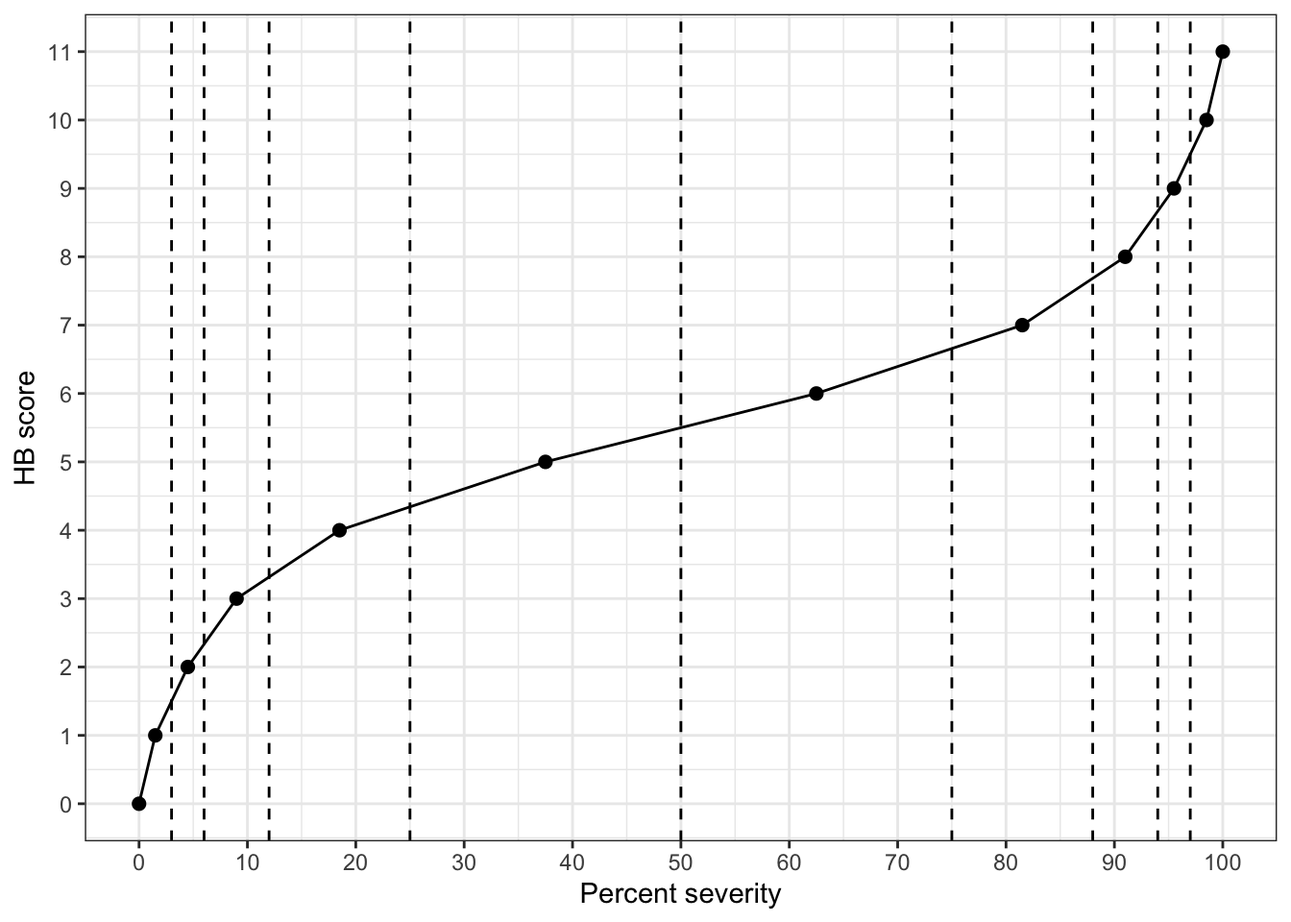
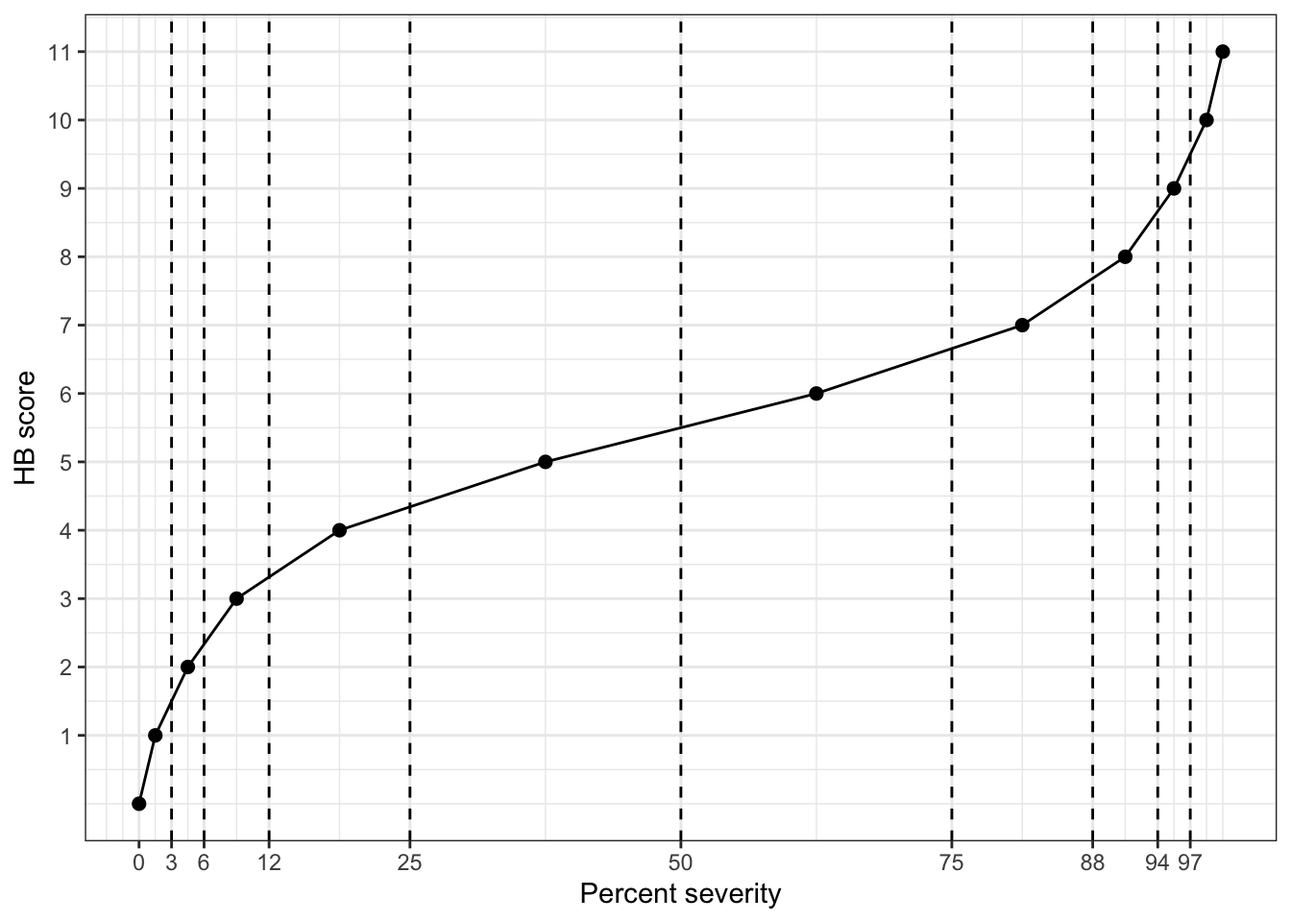
ordinal scales revised

diff --git a/_book/data-ordinal.html b/_book/data-ordinal.html
@@ -353,7 +353,7 @@ gtag('config', 'G-5T7SZYQV79', { 'anonymize_ip': true});
 </div>
 <section id="ordinal-scales" class="level2" data-number="4.1">
 <h2 data-number="4.1" class="anchored" data-anchor-id="ordinal-scales"><span class="header-section-number">4.1</span> Ordinal scales</h2>
-<p>The ordinal scales are structured as rank-ordered numeric classes in a finite number of classes. There are two common types of ordinal scales in plant pathological research: quantitative and qualitative <span class="citation" data-cites="Chiang2022">(<a href="references.html#ref-Chiang2022" role="doc-biblioref">Chiang and Bock 2021</a>)</span>. The reasons for using ordinal scales include convenience and speed of rating <span class="citation" data-cites="madden2017">(<a href="references.html#ref-madden2017" role="doc-biblioref">Madden et al. 2017</a>)</span>.</p>
+<p>The ordinal scales are structured as rank-ordered numeric classes in a finite number of classes. The reasons for using ordinal scales include convenience and speed of rating <span class="citation" data-cites="madden2017">(<a href="references.html#ref-madden2017" role="doc-biblioref">Madden et al. 2017</a>)</span>. There are two common types of ordinal scales in plant pathological research: quantitative and qualitative <span class="citation" data-cites="Chiang2022">(<a href="references.html#ref-Chiang2022" role="doc-biblioref">Chiang and Bock 2021</a>)</span>.</p>
 <section id="quantitative-ordinal" class="level3" data-number="4.1.1">
 <h3 data-number="4.1.1" class="anchored" data-anchor-id="quantitative-ordinal"><span class="header-section-number">4.1.1</span> Quantitative ordinal</h3>
 <p>In the quantitative ordinal scale, each score represents a defined interval of the percentage scale. The most well-known quantitative ordinal scale is the Horsfall-Barratt (HB) scale, developed in the early 1940s when the science of plant pathology was in need of more quantitative approaches <span class="citation" data-cites="hebert1982">(<a href="references.html#ref-hebert1982" role="doc-biblioref">Hebert 1982</a>)</span>. The HB scale splits the percent scale into twelve consecutive logarithmic-based intervals of severity from 0 to 100%. The intervals increase in size from 0 to 50% and decline from 50 to 100%.</p>
@@ -363,14 +363,14 @@ gtag('config', 'G-5T7SZYQV79', { 'anonymize_ip': true});
 <i class="callout-icon"></i>
 </div>
 <div class="callout-caption-container flex-fill">
-Controversy
+Controversy of the H-B scale
 </div>
 </div>
 <div class="callout-body-container callout-body">
-<p>The divisions of the <strong>H-B scale</strong> were based on two assumptions. First, on the logarithmic relationship between the intensity of a stimulus and sensation. Second, that the rater tends to focus on objects that are of smaller size when observing objects of two colors <span class="citation" data-cites="madden2017">(<a href="references.html#ref-madden2017" role="doc-biblioref">Madden et al. 2017</a>)</span>. The topic is a point of controversy in the literature, as there is little experimental evidence of these assumptions. To date, evidence shows a linear relationship between visually estimated and actual severity <span class="citation" data-cites="nutter2006a">(<a href="references.html#ref-nutter2006a" role="doc-biblioref">Nutter and Esker 2006</a>)</span>. New scale structure have been proposed to overcome the issues associated with the H-B scale <span class="citation" data-cites="liu2019 chiang2014">(<a href="references.html#ref-liu2019" role="doc-biblioref">Liu et al. 2019</a>; <a href="references.html#ref-chiang2014" role="doc-biblioref">Chiang et al. 2014</a>)</span>. The <strong>Chiang scale</strong> follows a linear relationship with percentage area diseased at severities &gt;10% (class 6 on the scale)</p>
+<p>The divisions of the H-B scale were based on two assumptions. First, on the logarithmic relationship between the intensity of a stimulus and sensation. Second, that the rater tends to focus on objects that are of smaller size when observing objects of two colors <span class="citation" data-cites="madden2017">(<a href="references.html#ref-madden2017" role="doc-biblioref">Madden et al. 2017</a>)</span>. The basis is the so-called Weber-Fechner law. There is little experimental evidence of the assumptions. To date, evidence shows a linear relationship, not a logarithmic, between visually estimated and actual severity <span class="citation" data-cites="nutter2006a">(<a href="references.html#ref-nutter2006a" role="doc-biblioref">Nutter and Esker 2006</a>)</span>. Also, those authors showed that raters more accurately discriminated disease severity between 25% and 50% compared to what the H-B scale allowed. New scale structure have been proposed to overcome the issues associated with the H-B scale <span class="citation" data-cites="liu2019 chiang2014">(<a href="references.html#ref-liu2019" role="doc-biblioref">Liu et al. 2019</a>; <a href="references.html#ref-chiang2014" role="doc-biblioref">Chiang et al. 2014</a>)</span>. The Chiang scale follows a linear relationship with percentage area diseased at severities &gt;10% (class 6 on the scale)</p>
 </div>
 </div>
-<p>Let’s create the HB scale data and store as a data frame in R so we can prepare a table and a plot.</p>
+<p>Let’s input the HB scale data and store as a data frame in R so we can prepare a table and a plot.</p>
 <div class="cell">
 <div class="sourceCode cell-code" id="cb1"><pre class="sourceCode r code-with-copy"><code class="sourceCode r"><span id="cb1-1"><a href="#cb1-1" aria-hidden="true" tabindex="-1"></a>HB <span class="ot">&lt;-</span> tibble<span class="sc">::</span><span class="fu">tribble</span>(</span>
 <span id="cb1-2"><a href="#cb1-2" aria-hidden="true" tabindex="-1"></a>  <span class="sc">~</span>score, <span class="sc">~</span><span class="st">'range'</span>, <span class="sc">~</span>midpoint,</span>
@@ -473,8 +473,8 @@ Controversy
 <span id="cb2-4"><a href="#cb2-4" aria-hidden="true" tabindex="-1"></a>  <span class="fu">ggplot</span>(<span class="fu">aes</span>(midpoint, score))<span class="sc">+</span></span>
 <span id="cb2-5"><a href="#cb2-5" aria-hidden="true" tabindex="-1"></a>  <span class="fu">geom_point</span>(<span class="at">size =</span><span class="dv">2</span>)<span class="sc">+</span></span>
 <span id="cb2-6"><a href="#cb2-6" aria-hidden="true" tabindex="-1"></a>  <span class="fu">geom_line</span>()<span class="sc">+</span></span>
-<span id="cb2-7"><a href="#cb2-7" aria-hidden="true" tabindex="-1"></a>  <span class="fu">scale_x_continuous</span>(<span class="at">n.breaks =</span> <span class="dv">10</span>)<span class="sc">+</span></span>
-<span id="cb2-8"><a href="#cb2-8" aria-hidden="true" tabindex="-1"></a>  <span class="fu">scale_y_continuous</span>(<span class="at">n.breaks =</span><span class="dv">12</span>)<span class="sc">+</span></span>
+<span id="cb2-7"><a href="#cb2-7" aria-hidden="true" tabindex="-1"></a>  <span class="fu">scale_x_continuous</span>(<span class="at">breaks =</span> <span class="fu">c</span>(<span class="dv">0</span>, <span class="dv">3</span>, <span class="dv">6</span>, <span class="dv">12</span>, <span class="dv">25</span>, <span class="dv">50</span>, <span class="dv">75</span>, <span class="dv">88</span>, <span class="dv">94</span>, <span class="dv">97</span>))<span class="sc">+</span></span>
+<span id="cb2-8"><a href="#cb2-8" aria-hidden="true" tabindex="-1"></a>  <span class="fu">scale_y_continuous</span>(<span class="at">breaks =</span> <span class="fu">c</span>(<span class="dv">1</span><span class="sc">:</span><span class="dv">12</span>))<span class="sc">+</span></span>
 <span id="cb2-9"><a href="#cb2-9" aria-hidden="true" tabindex="-1"></a>  <span class="fu">geom_vline</span>(<span class="fu">aes</span>(<span class="at">xintercept =</span> <span class="dv">3</span>), <span class="at">linetype =</span> <span class="dv">2</span>)<span class="sc">+</span></span>
 <span id="cb2-10"><a href="#cb2-10" aria-hidden="true" tabindex="-1"></a>  <span class="fu">geom_vline</span>(<span class="fu">aes</span>(<span class="at">xintercept =</span> <span class="dv">6</span>), <span class="at">linetype =</span> <span class="dv">2</span>)<span class="sc">+</span></span>
 <span id="cb2-11"><a href="#cb2-11" aria-hidden="true" tabindex="-1"></a>  <span class="fu">geom_vline</span>(<span class="fu">aes</span>(<span class="at">xintercept =</span> <span class="dv">12</span>), <span class="at">linetype =</span> <span class="dv">2</span>)<span class="sc">+</span></span>
@@ -494,6 +494,159 @@ Controversy
 </div>
 </div>
 </div>
+<p>We can repeat those procedures to visualize the Chiang scale.</p>
+<div class="cell">
+<div class="sourceCode cell-code" id="cb3"><pre class="sourceCode r code-with-copy"><code class="sourceCode r"><span id="cb3-1"><a href="#cb3-1" aria-hidden="true" tabindex="-1"></a>chiang <span class="ot">&lt;-</span> tibble<span class="sc">::</span><span class="fu">tribble</span>(</span>
+<span id="cb3-2"><a href="#cb3-2" aria-hidden="true" tabindex="-1"></a>  <span class="sc">~</span>score, <span class="sc">~</span><span class="st">'range'</span>, <span class="sc">~</span>midpoint,</span>
+<span id="cb3-3"><a href="#cb3-3" aria-hidden="true" tabindex="-1"></a>  <span class="dv">0</span>,          <span class="st">'0'</span>,     <span class="dv">0</span>,   </span>
+<span id="cb3-4"><a href="#cb3-4" aria-hidden="true" tabindex="-1"></a>  <span class="dv">1</span>,  <span class="st">'0+ to 0.1'</span>,  <span class="fl">0.05</span>,   </span>
+<span id="cb3-5"><a href="#cb3-5" aria-hidden="true" tabindex="-1"></a>  <span class="dv">2</span>,<span class="st">'0.1+ to 0.5'</span>,   <span class="fl">0.3</span>,   </span>
+<span id="cb3-6"><a href="#cb3-6" aria-hidden="true" tabindex="-1"></a>  <span class="dv">3</span>,  <span class="st">'0.5+ to 1'</span>,  <span class="fl">0.75</span>,  </span>
+<span id="cb3-7"><a href="#cb3-7" aria-hidden="true" tabindex="-1"></a>  <span class="dv">4</span>,    <span class="st">'1+ to 2'</span>,   <span class="fl">1.5</span>, </span>
+<span id="cb3-8"><a href="#cb3-8" aria-hidden="true" tabindex="-1"></a>  <span class="dv">5</span>,    <span class="st">'2+ to 5'</span>,     <span class="dv">3</span>, </span>
+<span id="cb3-9"><a href="#cb3-9" aria-hidden="true" tabindex="-1"></a>  <span class="dv">6</span>,   <span class="st">'5+ to 10'</span>,   <span class="fl">7.5</span>, </span>
+<span id="cb3-10"><a href="#cb3-10" aria-hidden="true" tabindex="-1"></a>  <span class="dv">7</span>,  <span class="st">'10+ to 20'</span>,    <span class="dv">15</span>, </span>
+<span id="cb3-11"><a href="#cb3-11" aria-hidden="true" tabindex="-1"></a>  <span class="dv">8</span>,  <span class="st">'20+ to 30'</span>,    <span class="dv">25</span>, </span>
+<span id="cb3-12"><a href="#cb3-12" aria-hidden="true" tabindex="-1"></a>  <span class="dv">9</span>,  <span class="st">'30+ to 40'</span>,    <span class="dv">35</span>, </span>
+<span id="cb3-13"><a href="#cb3-13" aria-hidden="true" tabindex="-1"></a>  <span class="dv">10</span>, <span class="st">'40+ to 50'</span>,    <span class="dv">45</span>,  </span>
+<span id="cb3-14"><a href="#cb3-14" aria-hidden="true" tabindex="-1"></a>  <span class="dv">11</span>, <span class="st">'50+ to 60'</span>,    <span class="dv">55</span>,</span>
+<span id="cb3-15"><a href="#cb3-15" aria-hidden="true" tabindex="-1"></a>  <span class="dv">12</span>, <span class="st">'60+ to 70'</span>,    <span class="dv">65</span>,</span>
+<span id="cb3-16"><a href="#cb3-16" aria-hidden="true" tabindex="-1"></a>  <span class="dv">13</span>, <span class="st">'70+ to 80'</span>,    <span class="dv">75</span>,</span>
+<span id="cb3-17"><a href="#cb3-17" aria-hidden="true" tabindex="-1"></a>  <span class="dv">14</span>, <span class="st">'80+ to 90'</span>,    <span class="dv">85</span>,</span>
+<span id="cb3-18"><a href="#cb3-18" aria-hidden="true" tabindex="-1"></a>  <span class="dv">15</span>, <span class="st">'90+ to 100'</span>,   <span class="dv">95</span></span>
+<span id="cb3-19"><a href="#cb3-19" aria-hidden="true" tabindex="-1"></a>  )</span>
+<span id="cb3-20"><a href="#cb3-20" aria-hidden="true" tabindex="-1"></a>knitr<span class="sc">::</span><span class="fu">kable</span>(chiang, <span class="at">align =</span> <span class="st">"c"</span>)</span></code><button title="Copy to Clipboard" class="code-copy-button"><i class="bi"></i></button></pre></div>
+<div class="cell-output-display">
+<div id="tbl-chiang" class="anchored">
+<table class="table table-sm table-striped">
+<caption>Table&nbsp;4.2: The Chiang quantitative ordinal scale used as a tool for assessing plant disease severity</caption>
+<thead>
+<tr class="header">
+<th style="text-align: center;">score</th>
+<th style="text-align: center;">range</th>
+<th style="text-align: center;">midpoint</th>
+</tr>
+</thead>
+<tbody>
+<tr class="odd">
+<td style="text-align: center;">0</td>
+<td style="text-align: center;">0</td>
+<td style="text-align: center;">0.00</td>
+</tr>
+<tr class="even">
+<td style="text-align: center;">1</td>
+<td style="text-align: center;">0+ to 0.1</td>
+<td style="text-align: center;">0.05</td>
+</tr>
+<tr class="odd">
+<td style="text-align: center;">2</td>
+<td style="text-align: center;">0.1+ to 0.5</td>
+<td style="text-align: center;">0.30</td>
+</tr>
+<tr class="even">
+<td style="text-align: center;">3</td>
+<td style="text-align: center;">0.5+ to 1</td>
+<td style="text-align: center;">0.75</td>
+</tr>
+<tr class="odd">
+<td style="text-align: center;">4</td>
+<td style="text-align: center;">1+ to 2</td>
+<td style="text-align: center;">1.50</td>
+</tr>
+<tr class="even">
+<td style="text-align: center;">5</td>
+<td style="text-align: center;">2+ to 5</td>
+<td style="text-align: center;">3.00</td>
+</tr>
+<tr class="odd">
+<td style="text-align: center;">6</td>
+<td style="text-align: center;">5+ to 10</td>
+<td style="text-align: center;">7.50</td>
+</tr>
+<tr class="even">
+<td style="text-align: center;">7</td>
+<td style="text-align: center;">10+ to 20</td>
+<td style="text-align: center;">15.00</td>
+</tr>
+<tr class="odd">
+<td style="text-align: center;">8</td>
+<td style="text-align: center;">20+ to 30</td>
+<td style="text-align: center;">25.00</td>
+</tr>
+<tr class="even">
+<td style="text-align: center;">9</td>
+<td style="text-align: center;">30+ to 40</td>
+<td style="text-align: center;">35.00</td>
+</tr>
+<tr class="odd">
+<td style="text-align: center;">10</td>
+<td style="text-align: center;">40+ to 50</td>
+<td style="text-align: center;">45.00</td>
+</tr>
+<tr class="even">
+<td style="text-align: center;">11</td>
+<td style="text-align: center;">50+ to 60</td>
+<td style="text-align: center;">55.00</td>
+</tr>
+<tr class="odd">
+<td style="text-align: center;">12</td>
+<td style="text-align: center;">60+ to 70</td>
+<td style="text-align: center;">65.00</td>
+</tr>
+<tr class="even">
+<td style="text-align: center;">13</td>
+<td style="text-align: center;">70+ to 80</td>
+<td style="text-align: center;">75.00</td>
+</tr>
+<tr class="odd">
+<td style="text-align: center;">14</td>
+<td style="text-align: center;">80+ to 90</td>
+<td style="text-align: center;">85.00</td>
+</tr>
+<tr class="even">
+<td style="text-align: center;">15</td>
+<td style="text-align: center;">90+ to 100</td>
+<td style="text-align: center;">95.00</td>
+</tr>
+</tbody>
+</table>
+</div>
+</div>
+</div>
+<div class="cell">
+<div class="sourceCode cell-code" id="cb4"><pre class="sourceCode r code-with-copy"><code class="sourceCode r"><span id="cb4-1"><a href="#cb4-1" aria-hidden="true" tabindex="-1"></a><span class="fu">library</span>(tidyverse)</span>
+<span id="cb4-2"><a href="#cb4-2" aria-hidden="true" tabindex="-1"></a><span class="fu">theme_set</span>(<span class="fu">theme_bw</span>())</span>
+<span id="cb4-3"><a href="#cb4-3" aria-hidden="true" tabindex="-1"></a>chiang <span class="sc">|&gt;</span> </span>
+<span id="cb4-4"><a href="#cb4-4" aria-hidden="true" tabindex="-1"></a>  <span class="fu">ggplot</span>(<span class="fu">aes</span>(midpoint, score))<span class="sc">+</span></span>
+<span id="cb4-5"><a href="#cb4-5" aria-hidden="true" tabindex="-1"></a>  <span class="fu">geom_point</span>(<span class="at">size =</span><span class="dv">2</span>)<span class="sc">+</span></span>
+<span id="cb4-6"><a href="#cb4-6" aria-hidden="true" tabindex="-1"></a>  <span class="fu">geom_line</span>()<span class="sc">+</span></span>
+<span id="cb4-7"><a href="#cb4-7" aria-hidden="true" tabindex="-1"></a>  <span class="fu">scale_x_continuous</span>(<span class="at">breaks =</span> <span class="fu">c</span>(<span class="dv">0</span>, <span class="dv">5</span>, <span class="dv">10</span>, <span class="dv">20</span>, <span class="dv">30</span>, <span class="dv">40</span>, <span class="dv">50</span>, <span class="dv">60</span>, <span class="dv">70</span>, <span class="dv">80</span>, <span class="dv">90</span>, <span class="dv">100</span>))<span class="sc">+</span></span>
+<span id="cb4-8"><a href="#cb4-8" aria-hidden="true" tabindex="-1"></a>  <span class="fu">geom_vline</span>(<span class="fu">aes</span>(<span class="at">xintercept =</span> <span class="dv">0</span>), <span class="at">linetype =</span> <span class="dv">2</span>)<span class="sc">+</span></span>
+<span id="cb4-9"><a href="#cb4-9" aria-hidden="true" tabindex="-1"></a>  <span class="fu">geom_vline</span>(<span class="fu">aes</span>(<span class="at">xintercept =</span> <span class="fl">0.1</span>), <span class="at">linetype =</span> <span class="dv">2</span>)<span class="sc">+</span></span>
+<span id="cb4-10"><a href="#cb4-10" aria-hidden="true" tabindex="-1"></a>  <span class="fu">geom_vline</span>(<span class="fu">aes</span>(<span class="at">xintercept =</span> <span class="fl">0.5</span>), <span class="at">linetype =</span> <span class="dv">2</span>)<span class="sc">+</span></span>
+<span id="cb4-11"><a href="#cb4-11" aria-hidden="true" tabindex="-1"></a>  <span class="fu">geom_vline</span>(<span class="fu">aes</span>(<span class="at">xintercept =</span> <span class="dv">1</span>), <span class="at">linetype =</span> <span class="dv">2</span>)<span class="sc">+</span></span>
+<span id="cb4-12"><a href="#cb4-12" aria-hidden="true" tabindex="-1"></a>  <span class="fu">geom_vline</span>(<span class="fu">aes</span>(<span class="at">xintercept =</span> <span class="dv">2</span>), <span class="at">linetype =</span> <span class="dv">2</span>)<span class="sc">+</span></span>
+<span id="cb4-13"><a href="#cb4-13" aria-hidden="true" tabindex="-1"></a>  <span class="fu">geom_vline</span>(<span class="fu">aes</span>(<span class="at">xintercept =</span> <span class="dv">5</span>), <span class="at">linetype =</span> <span class="dv">2</span>)<span class="sc">+</span></span>
+<span id="cb4-14"><a href="#cb4-14" aria-hidden="true" tabindex="-1"></a>  <span class="fu">geom_vline</span>(<span class="fu">aes</span>(<span class="at">xintercept =</span> <span class="dv">10</span>), <span class="at">linetype =</span> <span class="dv">2</span>)<span class="sc">+</span></span>
+<span id="cb4-15"><a href="#cb4-15" aria-hidden="true" tabindex="-1"></a>  <span class="fu">geom_vline</span>(<span class="fu">aes</span>(<span class="at">xintercept =</span> <span class="dv">20</span>), <span class="at">linetype =</span> <span class="dv">2</span>)<span class="sc">+</span></span>
+<span id="cb4-16"><a href="#cb4-16" aria-hidden="true" tabindex="-1"></a>  <span class="fu">geom_vline</span>(<span class="fu">aes</span>(<span class="at">xintercept =</span> <span class="dv">30</span>), <span class="at">linetype =</span> <span class="dv">2</span>)<span class="sc">+</span></span>
+<span id="cb4-17"><a href="#cb4-17" aria-hidden="true" tabindex="-1"></a>   <span class="fu">geom_vline</span>(<span class="fu">aes</span>(<span class="at">xintercept =</span> <span class="dv">40</span>), <span class="at">linetype =</span> <span class="dv">2</span>)<span class="sc">+</span></span>
+<span id="cb4-18"><a href="#cb4-18" aria-hidden="true" tabindex="-1"></a>   <span class="fu">geom_vline</span>(<span class="fu">aes</span>(<span class="at">xintercept =</span> <span class="dv">50</span>), <span class="at">linetype =</span> <span class="dv">2</span>)<span class="sc">+</span></span>
+<span id="cb4-19"><a href="#cb4-19" aria-hidden="true" tabindex="-1"></a>   <span class="fu">geom_vline</span>(<span class="fu">aes</span>(<span class="at">xintercept =</span> <span class="dv">60</span>), <span class="at">linetype =</span> <span class="dv">2</span>)<span class="sc">+</span></span>
+<span id="cb4-20"><a href="#cb4-20" aria-hidden="true" tabindex="-1"></a>   <span class="fu">geom_vline</span>(<span class="fu">aes</span>(<span class="at">xintercept =</span> <span class="dv">70</span>), <span class="at">linetype =</span> <span class="dv">2</span>)<span class="sc">+</span></span>
+<span id="cb4-21"><a href="#cb4-21" aria-hidden="true" tabindex="-1"></a>   <span class="fu">geom_vline</span>(<span class="fu">aes</span>(<span class="at">xintercept =</span> <span class="dv">80</span>), <span class="at">linetype =</span> <span class="dv">2</span>)<span class="sc">+</span></span>
+<span id="cb4-22"><a href="#cb4-22" aria-hidden="true" tabindex="-1"></a>   <span class="fu">geom_vline</span>(<span class="fu">aes</span>(<span class="at">xintercept =</span> <span class="dv">90</span>), <span class="at">linetype =</span> <span class="dv">2</span>)<span class="sc">+</span></span>
+<span id="cb4-23"><a href="#cb4-23" aria-hidden="true" tabindex="-1"></a>   <span class="fu">geom_vline</span>(<span class="fu">aes</span>(<span class="at">xintercept =</span> <span class="dv">100</span>), <span class="at">linetype =</span> <span class="dv">2</span>)<span class="sc">+</span></span>
+<span id="cb4-24"><a href="#cb4-24" aria-hidden="true" tabindex="-1"></a>  <span class="fu">labs</span>(<span class="at">x =</span> <span class="st">"Percent severity"</span>, <span class="at">y =</span> <span class="st">"Chiang score"</span>)</span></code><button title="Copy to Clipboard" class="code-copy-button"><i class="bi"></i></button></pre></div>
+<div class="cell-output-display">
+<div id="fig-chiagn" class="quarto-figure quarto-figure-center anchored">
+<figure class="figure">
+<p><img src="data-ordinal_files/figure-html/fig-chiagn-1.png" class="img-fluid figure-img" width="672"></p>
+<p></p><figcaption class="figure-caption">Figure&nbsp;4.2: Ordinal scores of the Chiang scale</figcaption><p></p>
+</figure>
+</div>
+</div>
+</div>
 </section>
 <section id="qualitative-ordinal" class="level3" data-number="4.1.2">
 <h3 data-number="4.1.2" class="anchored" data-anchor-id="qualitative-ordinal"><span class="header-section-number">4.1.2</span> Qualitative ordinal</h3>
@@ -501,8 +654,8 @@ Controversy
 <table class="table">
 <caption>Ordinal scale for rating eyespot of wheat <span class="citation" data-cites="scott1974">(<a href="references.html#ref-scott1974" role="doc-biblioref">Scott and Hollins 1974</a>)</span></caption>
 <colgroup>
-<col style="width: 25%">
-<col style="width: 75%">
+<col style="width: 26%">
+<col style="width: 73%">
 </colgroup>
 <thead>
 <tr class="header">
@@ -534,30 +687,30 @@ Controversy
 <section id="disease-severity-index-dsi" class="level2" data-number="4.2">
 <h2 data-number="4.2" class="anchored" data-anchor-id="disease-severity-index-dsi"><span class="header-section-number">4.2</span> Disease severity index (DSI)</h2>
 <p>Usually, when quantitative or qualitative ordinal scales are used, the scores are transformed into an index on a percentage basis, such as the disease severity index (DSI) which are used in data analysis. The DSI is a single number that summarizes a large amount of information on disease severity <span class="citation" data-cites="chester1950">(<a href="references.html#ref-chester1950" role="doc-biblioref">Chester 1950</a>)</span>. The formula for a DSI (%) can be written as follows:</p>
-<p><span class="math inline">\(DSI = \frac{∑(class \ frequency \ ✕ \ score \  of \ rating \ class)} {total \ number \ of \ observations \ ✕ \ maximal \ disease \ index} ✕ 100\)</span></p>
+<p><span class="math inline">\(DSI = \frac{∑(class \ freq. \ ✕ \ score \  of \ class)} {total \ n \ ✕ \ maximal \ class} ✕ 100\)</span></p>
 <p>Let’s create a function named <code>DSI()</code> to automate the calculation of the disease severity index (DSI) in a series of units (e.g.&nbsp;leaves) that are further classified according to ordinal scores.</p>
 <div class="cell">
-<div class="sourceCode cell-code" id="cb3"><pre class="sourceCode r code-with-copy"><code class="sourceCode r"><span id="cb3-1"><a href="#cb3-1" aria-hidden="true" tabindex="-1"></a>DSI <span class="ot">&lt;-</span> <span class="cf">function</span>(unit, score, max) {</span>
-<span id="cb3-2"><a href="#cb3-2" aria-hidden="true" tabindex="-1"></a>df <span class="ot">&lt;-</span> <span class="fu">data.frame</span>(unit, score)</span>
-<span id="cb3-3"><a href="#cb3-3" aria-hidden="true" tabindex="-1"></a>tab <span class="ot">&lt;-</span> <span class="fu">aggregate</span>(df<span class="sc">$</span>score, <span class="fu">list</span>(<span class="at">num=</span>score), length)</span>
-<span id="cb3-4"><a href="#cb3-4" aria-hidden="true" tabindex="-1"></a>tab<span class="sc">$</span>weight <span class="ot">=</span> tab<span class="sc">$</span>num <span class="sc">*</span> tab<span class="sc">$</span>x</span>
-<span id="cb3-5"><a href="#cb3-5" aria-hidden="true" tabindex="-1"></a>(<span class="fu">sum</span>(<span class="fu">as.numeric</span>(tab<span class="sc">$</span>weight)))<span class="sc">/</span>(<span class="fu">nrow</span>(df)<span class="sc">*</span>max)<span class="sc">*</span><span class="dv">100</span></span>
-<span id="cb3-6"><a href="#cb3-6" aria-hidden="true" tabindex="-1"></a>}</span></code><button title="Copy to Clipboard" class="code-copy-button"><i class="bi"></i></button></pre></div>
+<div class="sourceCode cell-code" id="cb5"><pre class="sourceCode r code-with-copy"><code class="sourceCode r"><span id="cb5-1"><a href="#cb5-1" aria-hidden="true" tabindex="-1"></a>DSI <span class="ot">&lt;-</span> <span class="cf">function</span>(unit, class, max) {</span>
+<span id="cb5-2"><a href="#cb5-2" aria-hidden="true" tabindex="-1"></a>df <span class="ot">&lt;-</span> <span class="fu">data.frame</span>(unit, class)</span>
+<span id="cb5-3"><a href="#cb5-3" aria-hidden="true" tabindex="-1"></a>tab <span class="ot">&lt;-</span> <span class="fu">aggregate</span>(df<span class="sc">$</span>class, <span class="fu">list</span>(<span class="at">num=</span>class), length)</span>
+<span id="cb5-4"><a href="#cb5-4" aria-hidden="true" tabindex="-1"></a>tab<span class="sc">$</span>weight <span class="ot">=</span> tab<span class="sc">$</span>num <span class="sc">*</span> tab<span class="sc">$</span>x</span>
+<span id="cb5-5"><a href="#cb5-5" aria-hidden="true" tabindex="-1"></a>(<span class="fu">sum</span>(<span class="fu">as.numeric</span>(tab<span class="sc">$</span>weight)))<span class="sc">/</span>(<span class="fu">nrow</span>(df)<span class="sc">*</span>max)<span class="sc">*</span><span class="dv">100</span></span>
+<span id="cb5-6"><a href="#cb5-6" aria-hidden="true" tabindex="-1"></a>}</span></code><button title="Copy to Clipboard" class="code-copy-button"><i class="bi"></i></button></pre></div>
 </div>
 <p>The function requires three arguments:</p>
 <ul>
 <li><p>unit = the vector of the number of each unit</p></li>
-<li><p>score = the vector of the scores for the units</p></li>
-<li><p>max = the maximum value of the ordinal scale</p></li>
+<li><p>class = the vector of the scores for the units</p></li>
+<li><p>max = the maximum value of the scale</p></li>
 </ul>
 <p>Let’s use a toy data set composed of 12 units where each received an ordinal score. The vectors were arranged as a data frame named scores.</p>
 <div class="cell">
-<div class="sourceCode cell-code" id="cb4"><pre class="sourceCode r code-with-copy"><code class="sourceCode r"><span id="cb4-1"><a href="#cb4-1" aria-hidden="true" tabindex="-1"></a>unit <span class="ot">&lt;-</span> <span class="fu">c</span>(<span class="dv">1</span><span class="sc">:</span><span class="dv">12</span>)</span>
-<span id="cb4-2"><a href="#cb4-2" aria-hidden="true" tabindex="-1"></a>score <span class="ot">&lt;-</span> <span class="fu">c</span>(<span class="dv">2</span>,<span class="dv">3</span>,<span class="dv">1</span>,<span class="dv">1</span>,<span class="dv">3</span>,<span class="dv">4</span>,<span class="dv">5</span>,<span class="dv">0</span>,<span class="dv">2</span>,<span class="dv">5</span>,<span class="dv">2</span>,<span class="dv">1</span>)</span>
-<span id="cb4-3"><a href="#cb4-3" aria-hidden="true" tabindex="-1"></a>scores <span class="ot">&lt;-</span> <span class="fu">data.frame</span>(unit, score)</span>
-<span id="cb4-4"><a href="#cb4-4" aria-hidden="true" tabindex="-1"></a>scores</span></code><button title="Copy to Clipboard" class="code-copy-button"><i class="bi"></i></button></pre></div>
+<div class="sourceCode cell-code" id="cb6"><pre class="sourceCode r code-with-copy"><code class="sourceCode r"><span id="cb6-1"><a href="#cb6-1" aria-hidden="true" tabindex="-1"></a>unit <span class="ot">&lt;-</span> <span class="fu">c</span>(<span class="dv">1</span><span class="sc">:</span><span class="dv">12</span>)</span>
+<span id="cb6-2"><a href="#cb6-2" aria-hidden="true" tabindex="-1"></a>class <span class="ot">&lt;-</span> <span class="fu">c</span>(<span class="dv">2</span>,<span class="dv">3</span>,<span class="dv">1</span>,<span class="dv">1</span>,<span class="dv">3</span>,<span class="dv">4</span>,<span class="dv">5</span>,<span class="dv">0</span>,<span class="dv">2</span>,<span class="dv">5</span>,<span class="dv">2</span>,<span class="dv">1</span>)</span>
+<span id="cb6-3"><a href="#cb6-3" aria-hidden="true" tabindex="-1"></a>ratings <span class="ot">&lt;-</span> <span class="fu">data.frame</span>(unit, class)</span>
+<span id="cb6-4"><a href="#cb6-4" aria-hidden="true" tabindex="-1"></a>ratings</span></code><button title="Copy to Clipboard" class="code-copy-button"><i class="bi"></i></button></pre></div>
 <div class="cell-output cell-output-stdout">
-<pre><code>   unit score
+<pre><code>   unit class
 1     1     2
 2     2     3
 3     3     1
@@ -574,22 +727,22 @@ Controversy
 </div>
 <p>The ordinal score used in this example has 6 as the maximum score. The function returns the DSI value.</p>
 <div class="cell">
-<div class="sourceCode cell-code" id="cb6"><pre class="sourceCode r code-with-copy"><code class="sourceCode r"><span id="cb6-1"><a href="#cb6-1" aria-hidden="true" tabindex="-1"></a><span class="fu">DSI</span>(scores<span class="sc">$</span>unit, scores<span class="sc">$</span>score, <span class="dv">6</span>)</span></code><button title="Copy to Clipboard" class="code-copy-button"><i class="bi"></i></button></pre></div>
+<div class="sourceCode cell-code" id="cb8"><pre class="sourceCode r code-with-copy"><code class="sourceCode r"><span id="cb8-1"><a href="#cb8-1" aria-hidden="true" tabindex="-1"></a><span class="fu">DSI</span>(ratings<span class="sc">$</span>unit, ratings<span class="sc">$</span>class, <span class="dv">6</span>)</span></code><button title="Copy to Clipboard" class="code-copy-button"><i class="bi"></i></button></pre></div>
 <div class="cell-output cell-output-stdout">
 <pre><code>[1] 40.27778</code></pre>
 </div>
 </div>
 <p>Let’s work now with a situation of multiple plots (5 replicates) where a fixed number of 12 samples were taken and assessed using an ordinal score. Let’s input the data using the <code>tribble()</code> function. Note that the data is in the wide format.</p>
 <div class="cell">
-<div class="sourceCode cell-code" id="cb8"><pre class="sourceCode r code-with-copy"><code class="sourceCode r"><span id="cb8-1"><a href="#cb8-1" aria-hidden="true" tabindex="-1"></a>exp <span class="ot">&lt;-</span> tibble<span class="sc">::</span><span class="fu">tribble</span>(</span>
-<span id="cb8-2"><a href="#cb8-2" aria-hidden="true" tabindex="-1"></a>  <span class="sc">~</span>rep, <span class="sc">~</span><span class="st">`</span><span class="at">1</span><span class="st">`</span>, <span class="sc">~</span><span class="st">`</span><span class="at">2</span><span class="st">`</span>, <span class="sc">~</span><span class="st">`</span><span class="at">3</span><span class="st">`</span>, <span class="sc">~</span><span class="st">`</span><span class="at">4</span><span class="st">`</span>, <span class="sc">~</span><span class="st">`</span><span class="at">5</span><span class="st">`</span>, <span class="sc">~</span><span class="st">`</span><span class="at">6</span><span class="st">`</span>, <span class="sc">~</span><span class="st">`</span><span class="at">7</span><span class="st">`</span>, <span class="sc">~</span><span class="st">`</span><span class="at">8</span><span class="st">`</span>, <span class="sc">~</span><span class="st">`</span><span class="at">9</span><span class="st">`</span>, <span class="sc">~</span><span class="st">`</span><span class="at">10</span><span class="st">`</span>, <span class="sc">~</span><span class="st">`</span><span class="at">11</span><span class="st">`</span>,<span class="sc">~</span><span class="st">`</span><span class="at">12</span><span class="st">`</span>,</span>
-<span id="cb8-3"><a href="#cb8-3" aria-hidden="true" tabindex="-1"></a>  <span class="dv">1</span>, <span class="dv">2</span>, <span class="dv">3</span>, <span class="dv">1</span>, <span class="dv">1</span>, <span class="dv">3</span>, <span class="dv">4</span>, <span class="dv">5</span>, <span class="dv">0</span>, <span class="dv">2</span>, <span class="dv">5</span>, <span class="dv">2</span>, <span class="dv">1</span>,</span>
-<span id="cb8-4"><a href="#cb8-4" aria-hidden="true" tabindex="-1"></a>  <span class="dv">2</span>, <span class="dv">3</span>, <span class="dv">4</span>, <span class="dv">4</span>, <span class="dv">6</span>, <span class="dv">5</span>, <span class="dv">4</span>, <span class="dv">4</span>, <span class="dv">0</span>, <span class="dv">2</span>, <span class="dv">1</span>, <span class="dv">1</span>, <span class="dv">5</span>,</span>
-<span id="cb8-5"><a href="#cb8-5" aria-hidden="true" tabindex="-1"></a>  <span class="dv">3</span>, <span class="dv">5</span>, <span class="dv">6</span>, <span class="dv">6</span>, <span class="dv">5</span>, <span class="dv">4</span>, <span class="dv">2</span>, <span class="dv">0</span>, <span class="dv">0</span>, <span class="dv">0</span>, <span class="dv">0</span>, <span class="dv">2</span>, <span class="dv">0</span>,</span>
-<span id="cb8-6"><a href="#cb8-6" aria-hidden="true" tabindex="-1"></a>  <span class="dv">4</span>, <span class="dv">5</span>, <span class="dv">6</span>, <span class="dv">0</span>, <span class="dv">0</span>, <span class="dv">0</span>, <span class="dv">3</span>, <span class="dv">3</span>, <span class="dv">2</span>, <span class="dv">1</span>, <span class="dv">0</span>, <span class="dv">2</span>, <span class="dv">3</span>, </span>
-<span id="cb8-7"><a href="#cb8-7" aria-hidden="true" tabindex="-1"></a>  <span class="dv">5</span>, <span class="dv">0</span>, <span class="dv">0</span>, <span class="dv">0</span>, <span class="dv">0</span>, <span class="dv">2</span>, <span class="dv">3</span>, <span class="dv">2</span>, <span class="dv">5</span>, <span class="dv">6</span>, <span class="dv">2</span>, <span class="dv">1</span>, <span class="dv">0</span>,</span>
-<span id="cb8-8"><a href="#cb8-8" aria-hidden="true" tabindex="-1"></a>)</span>
-<span id="cb8-9"><a href="#cb8-9" aria-hidden="true" tabindex="-1"></a>exp</span></code><button title="Copy to Clipboard" class="code-copy-button"><i class="bi"></i></button></pre></div>
+<div class="sourceCode cell-code" id="cb10"><pre class="sourceCode r code-with-copy"><code class="sourceCode r"><span id="cb10-1"><a href="#cb10-1" aria-hidden="true" tabindex="-1"></a>exp <span class="ot">&lt;-</span> tibble<span class="sc">::</span><span class="fu">tribble</span>(</span>
+<span id="cb10-2"><a href="#cb10-2" aria-hidden="true" tabindex="-1"></a>  <span class="sc">~</span>rep, <span class="sc">~</span><span class="st">`</span><span class="at">1</span><span class="st">`</span>, <span class="sc">~</span><span class="st">`</span><span class="at">2</span><span class="st">`</span>, <span class="sc">~</span><span class="st">`</span><span class="at">3</span><span class="st">`</span>, <span class="sc">~</span><span class="st">`</span><span class="at">4</span><span class="st">`</span>, <span class="sc">~</span><span class="st">`</span><span class="at">5</span><span class="st">`</span>, <span class="sc">~</span><span class="st">`</span><span class="at">6</span><span class="st">`</span>, <span class="sc">~</span><span class="st">`</span><span class="at">7</span><span class="st">`</span>, <span class="sc">~</span><span class="st">`</span><span class="at">8</span><span class="st">`</span>, <span class="sc">~</span><span class="st">`</span><span class="at">9</span><span class="st">`</span>, <span class="sc">~</span><span class="st">`</span><span class="at">10</span><span class="st">`</span>, <span class="sc">~</span><span class="st">`</span><span class="at">11</span><span class="st">`</span>,<span class="sc">~</span><span class="st">`</span><span class="at">12</span><span class="st">`</span>,</span>
+<span id="cb10-3"><a href="#cb10-3" aria-hidden="true" tabindex="-1"></a>  <span class="dv">1</span>, <span class="dv">2</span>, <span class="dv">3</span>, <span class="dv">1</span>, <span class="dv">1</span>, <span class="dv">3</span>, <span class="dv">4</span>, <span class="dv">5</span>, <span class="dv">0</span>, <span class="dv">2</span>, <span class="dv">5</span>, <span class="dv">2</span>, <span class="dv">1</span>,</span>
+<span id="cb10-4"><a href="#cb10-4" aria-hidden="true" tabindex="-1"></a>  <span class="dv">2</span>, <span class="dv">3</span>, <span class="dv">4</span>, <span class="dv">4</span>, <span class="dv">6</span>, <span class="dv">5</span>, <span class="dv">4</span>, <span class="dv">4</span>, <span class="dv">0</span>, <span class="dv">2</span>, <span class="dv">1</span>, <span class="dv">1</span>, <span class="dv">5</span>,</span>
+<span id="cb10-5"><a href="#cb10-5" aria-hidden="true" tabindex="-1"></a>  <span class="dv">3</span>, <span class="dv">5</span>, <span class="dv">6</span>, <span class="dv">6</span>, <span class="dv">5</span>, <span class="dv">4</span>, <span class="dv">2</span>, <span class="dv">0</span>, <span class="dv">0</span>, <span class="dv">0</span>, <span class="dv">0</span>, <span class="dv">2</span>, <span class="dv">0</span>,</span>
+<span id="cb10-6"><a href="#cb10-6" aria-hidden="true" tabindex="-1"></a>  <span class="dv">4</span>, <span class="dv">5</span>, <span class="dv">6</span>, <span class="dv">0</span>, <span class="dv">0</span>, <span class="dv">0</span>, <span class="dv">3</span>, <span class="dv">3</span>, <span class="dv">2</span>, <span class="dv">1</span>, <span class="dv">0</span>, <span class="dv">2</span>, <span class="dv">3</span>, </span>
+<span id="cb10-7"><a href="#cb10-7" aria-hidden="true" tabindex="-1"></a>  <span class="dv">5</span>, <span class="dv">0</span>, <span class="dv">0</span>, <span class="dv">0</span>, <span class="dv">0</span>, <span class="dv">2</span>, <span class="dv">3</span>, <span class="dv">2</span>, <span class="dv">5</span>, <span class="dv">6</span>, <span class="dv">2</span>, <span class="dv">1</span>, <span class="dv">0</span>,</span>
+<span id="cb10-8"><a href="#cb10-8" aria-hidden="true" tabindex="-1"></a>)</span>
+<span id="cb10-9"><a href="#cb10-9" aria-hidden="true" tabindex="-1"></a>exp</span></code><button title="Copy to Clipboard" class="code-copy-button"><i class="bi"></i></button></pre></div>
 <div class="cell-output cell-output-stdout">
 <pre><code># A tibble: 5 × 13
     rep   `1`   `2`   `3`   `4`   `5`   `6`   `7`   `8`   `9`  `10`  `11`  `12`
@@ -603,14 +756,14 @@ Controversy
 </div>
 <p>After reshaping the data to the long format, we can calculate the DSI for each plot/replicate as follows:</p>
 <div class="cell">
-<div class="sourceCode cell-code" id="cb10"><pre class="sourceCode r code-with-copy"><code class="sourceCode r"><span id="cb10-1"><a href="#cb10-1" aria-hidden="true" tabindex="-1"></a>res <span class="ot">&lt;-</span> exp <span class="sc">|&gt;</span> </span>
-<span id="cb10-2"><a href="#cb10-2" aria-hidden="true" tabindex="-1"></a>  <span class="fu">pivot_longer</span>(<span class="dv">2</span><span class="sc">:</span><span class="dv">13</span>, <span class="at">names_to =</span> <span class="st">"unit"</span>, <span class="at">values_to =</span> <span class="st">"score"</span>) <span class="sc">|&gt;</span></span>
-<span id="cb10-3"><a href="#cb10-3" aria-hidden="true" tabindex="-1"></a>  <span class="fu">group_by</span>(rep) <span class="sc">|&gt;</span> </span>
-<span id="cb10-4"><a href="#cb10-4" aria-hidden="true" tabindex="-1"></a>  <span class="fu">summarise</span>(<span class="at">DSI =</span> <span class="fu">DSI</span>(unit, score, <span class="dv">6</span>))</span></code><button title="Copy to Clipboard" class="code-copy-button"><i class="bi"></i></button></pre></div>
+<div class="sourceCode cell-code" id="cb12"><pre class="sourceCode r code-with-copy"><code class="sourceCode r"><span id="cb12-1"><a href="#cb12-1" aria-hidden="true" tabindex="-1"></a>res <span class="ot">&lt;-</span> exp <span class="sc">|&gt;</span> </span>
+<span id="cb12-2"><a href="#cb12-2" aria-hidden="true" tabindex="-1"></a>  <span class="fu">pivot_longer</span>(<span class="dv">2</span><span class="sc">:</span><span class="dv">13</span>, <span class="at">names_to =</span> <span class="st">"unit"</span>, <span class="at">values_to =</span> <span class="st">"class"</span>) <span class="sc">|&gt;</span></span>
+<span id="cb12-3"><a href="#cb12-3" aria-hidden="true" tabindex="-1"></a>  <span class="fu">group_by</span>(rep) <span class="sc">|&gt;</span> </span>
+<span id="cb12-4"><a href="#cb12-4" aria-hidden="true" tabindex="-1"></a>  <span class="fu">summarise</span>(<span class="at">DSI =</span> <span class="fu">DSI</span>(unit, class, <span class="dv">6</span>))</span></code><button title="Copy to Clipboard" class="code-copy-button"><i class="bi"></i></button></pre></div>
 </div>
 <p>And here we have the results of the DSI for each replicate.</p>
 <div class="cell">
-<div class="sourceCode cell-code" id="cb11"><pre class="sourceCode r code-with-copy"><code class="sourceCode r"><span id="cb11-1"><a href="#cb11-1" aria-hidden="true" tabindex="-1"></a>knitr<span class="sc">::</span><span class="fu">kable</span>(res, <span class="at">align =</span> <span class="st">"c"</span>)</span></code><button title="Copy to Clipboard" class="code-copy-button"><i class="bi"></i></button></pre></div>
+<div class="sourceCode cell-code" id="cb13"><pre class="sourceCode r code-with-copy"><code class="sourceCode r"><span id="cb13-1"><a href="#cb13-1" aria-hidden="true" tabindex="-1"></a>knitr<span class="sc">::</span><span class="fu">kable</span>(res, <span class="at">align =</span> <span class="st">"c"</span>)</span></code><button title="Copy to Clipboard" class="code-copy-button"><i class="bi"></i></button></pre></div>
 <div class="cell-output-display">
 <table class="table table-sm table-striped">
 <thead>
